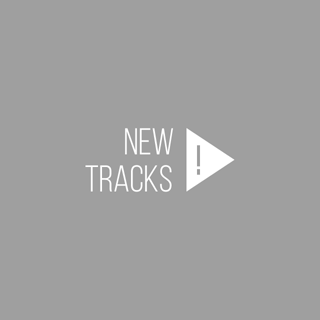
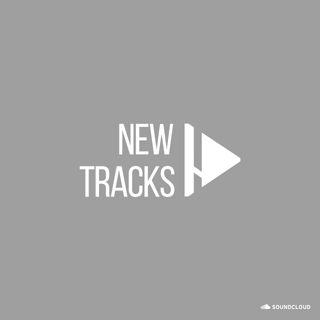
画像差し替え　一旦完成

Changed region(s): [[0.25, 0.375, 0.75, 0.625], [0.8125, 0.9375, 0.9688, 0.9688]]

diff --git a/ShufflePlayer/OpeningView.m b/ShufflePlayer/OpeningView.m
@@ -36,7 +36,7 @@
 
   UIImage *logoImage = [UIImage imageNamed:@"opening_logo"];
 
-  CGRect logoFrame = CGRectMake(self.center.x - logoImage.size.width / 2, 154,
+  CGRect logoFrame = CGRectMake(self.center.x - logoImage.size.width / 2, 320 / 2 - logoImage.size.height / 2,
                                 logoImage.size.width, logoImage.size.height);
 
   _logo = [[UIImageView alloc] initWithImage:logoImage];
